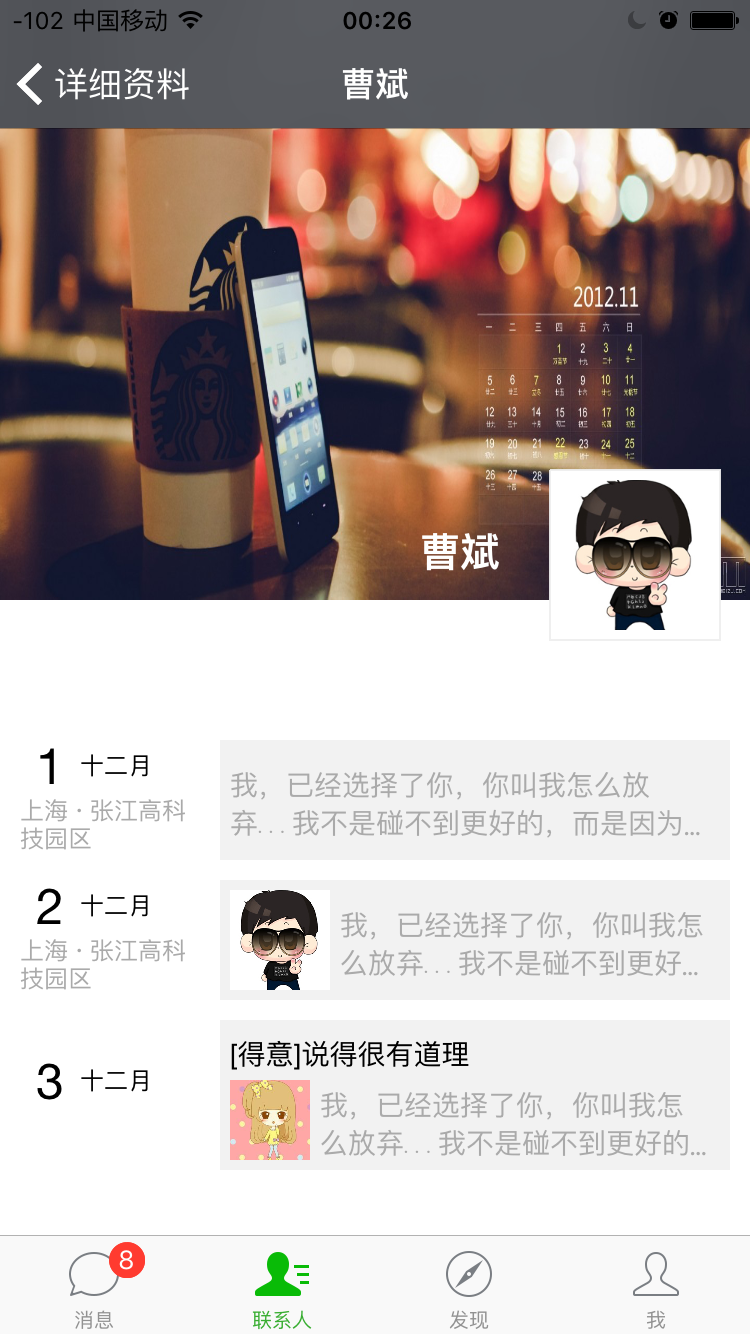
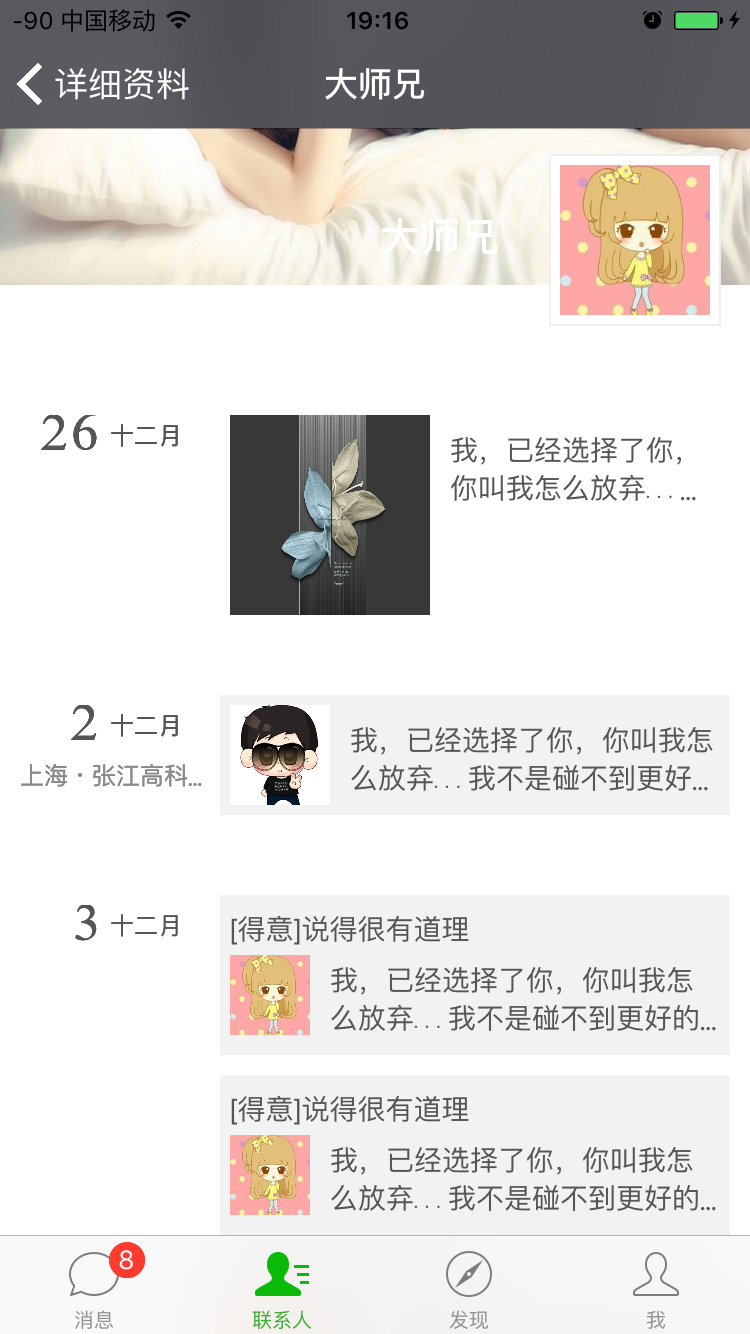
添加个信信息最后一行线条,修改个人信息图片

diff --git a/WeChat/PersonViewController.swift b/WeChat/PersonViewController.swift
@@ -116,7 +116,7 @@ class PersonViewController: WeChatTableViewNormalController {
         let photo3 = Photo(photoImage: UIImage(named: "info-bg6"),width:100,height:100,isBigPic:true)
         let photo4 = Photo(photoImage: UIImage(named: "info-bg4"),width:100,height:100,isBigPic:true)
         
-        for i in 0 ... 21 {
+        for i in 0 ..< 21 {
             var personInfo:PersonInfo = PersonInfo()
             if i % 6 == 1 {//小图片和内容
                 let photo = Photo(photoImage: UIImage(named: "contact1"))
@@ -221,7 +221,7 @@ class PersonViewController: WeChatTableViewNormalController {
     
     //MARKS: 返回cell行数
     override func tableView(tableView: UITableView, numberOfRowsInSection section: Int) -> Int {
-        return personInfos.count
+        return personInfos.count + 1
     }
     
     //创建Label
@@ -251,6 +251,15 @@ class PersonViewController: WeChatTableViewNormalController {
         if cell == nil {
             cell = UITableViewCell(style: .Default, reuseIdentifier: "Cell\(indexPath.section)\(indexPath.row)")
         }
+        
+        //最后一行添加线条
+        if indexPath.row == personInfos.count {
+            cell!.addSubview(LastCellCustomView(frame: CGRectMake(leftWidth + rightPadding, cell!.frame.height / 2, cell!.frame.width - leftWidth,lastDrawHeight)))
+            //取消cell选中样式
+            cell!.selectionStyle = .None
+            return cell!
+        }
+
         
         let personInfo = personInfos[indexPath.row]
         if !personInfo.day.isEmpty {
@@ -344,10 +353,6 @@ class PersonViewController: WeChatTableViewNormalController {
             
         }
         
-        //最后一行添加线条
-        /*if indexPath.row == (personInfos.count - 1) {
-            cell!.addSubview(LastCellCustomView(frame: CGRectMake(leftWidth + rightPadding, cell!.frame.height - lastCellBottomPadding * 2 + lastCellBottomPadding, cell!.frame.width - leftWidth,lastDrawHeight)))
-        }*/
         
         //取消cell选中样式
         cell!.selectionStyle = .None
@@ -515,16 +520,21 @@ class PersonViewController: WeChatTableViewNormalController {
     
     //MARKS:根据内容重新计算高度
     override func tableView(tableView: UITableView, heightForRowAtIndexPath indexPath: NSIndexPath) -> CGFloat {
-        let personInfo = personInfos[indexPath.row]
+        var height:CGFloat = 0
         
-        var height = getViewHeight(personInfo)
         //最后一行添加线条
-        if indexPath.row == (personInfos.count - 1) {
-            height += lastCellBottomPadding * 2
+        if indexPath.row == personInfos.count {
+            height += lastCellBottomPadding
             return height
         }
         
-        return height + bottomPadding
+        let personInfo = personInfos[indexPath.row]
+        height = getViewHeight(personInfo)
+        if indexPath.row != (personInfos.count - 1) {
+            return height + bottomPadding
+        }else{
+            return height
+        }
     }
 
     //获取高度
